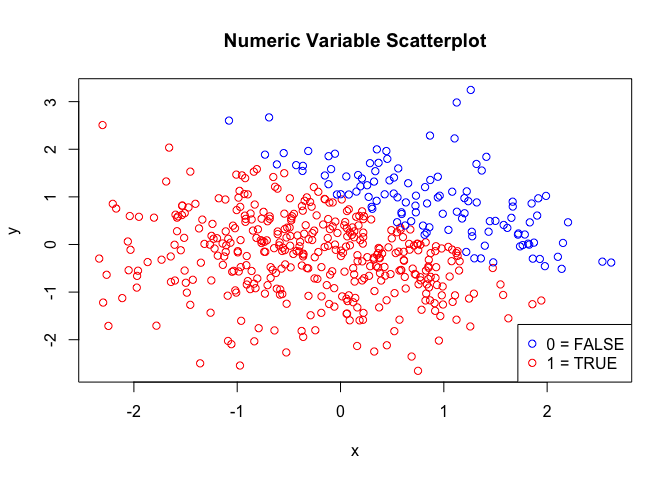
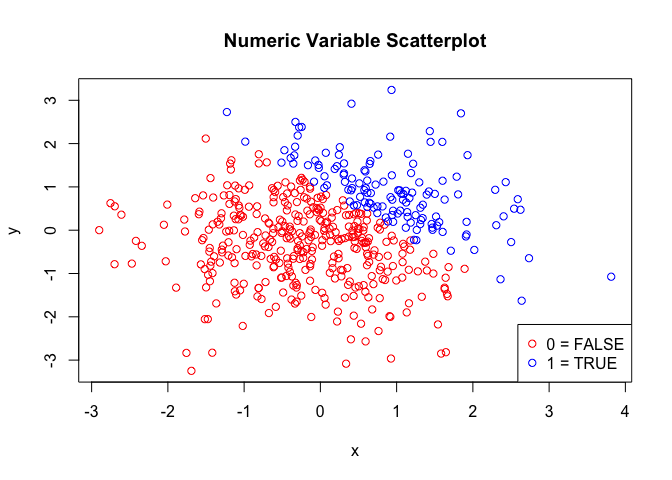
Update labels and colors for all three scatterplots.

diff --git a/p8105_hw1_dz2426.md b/p8105_hw1_dz2426.md
@@ -48,9 +48,9 @@ mean_char_vec = mean(pull(df_1, char_vec))
 mean_fac_vec = mean(pull(df_1, fac_vec))
 ```
 
-Comment 1: <br /> The mean of the random sample is -0.2. <br /> The mean
-of the logic vector is 0.38. <br /> The mean of the character vector is
-NA. <br /> The mean of the factor vector is NA. <br />
+Comment 1: <br /> The mean of the random sample is -0.28. <br /> The
+mean of the logic vector is 0.5. <br /> The mean of the character vector
+is NA. <br /> The mean of the factor vector is NA. <br />
 
 ``` r
 #Convert the logical, character, and factor vector to numeric variable
@@ -77,8 +77,8 @@ Here is the second code
 as.numeric(pull(df_1, log_vec)) * pull(df_1, random_samp)
 ```
 
-    ## [1] 0.0000000 0.0000000 0.0000000 1.6314314 0.0000000 2.6121077 0.0000000
-    ## [8] 0.2607304
+    ## [1] 0.49097248 0.51857918 0.07982578 0.00000000 0.00000000 0.00000000
+    ## [7] 0.00000000 0.53718810
 
 ``` r
 as.factor(pull(df_1, log_vec)) * pull(df_1, random_samp)
@@ -93,8 +93,8 @@ as.factor(pull(df_1, log_vec)) * pull(df_1, random_samp)
 as.numeric(as.factor(pull(df_1, log_vec))) * pull(df_1, random_samp)
 ```
 
-    ## [1] -0.9702213 -2.6442266 -0.9949547  3.2628628 -1.1109284  5.2242154
-    ## [7] -0.3795574  0.5214608
+    ## [1]  0.9819450  1.0371584  0.1596516 -1.4371491 -0.8483893 -0.3902239
+    ## [7] -1.1923654  1.0743762
 
 # Problem 2
 
@@ -122,9 +122,9 @@ prop_case = mean(pull(df_2, log_vec_2))
 ```
 
 Description of data frame: <br /> The size of the data set is 500 and 5.
-<br /> The mean, median and standard deviation of x are -0.01, 0.04 and
-0.98, respectively. <br /> The proportion of cases for which x+y\>1 is
-0.23.
+<br /> The mean, median and standard deviation of x are 0.06, 0.05 and
+1.03, respectively. <br /> The proportion of cases for which x+y\>1 is
+0.27.
 
 \#\#Section 2
 
@@ -133,7 +133,7 @@ with(df_2, plot(x, y, xlab = "x", ylab = "y",
                          main = "Logical Variable Scatterplot", type = "n"))
 with(subset(df_2, log_vec_2 == 'FALSE'), points(x, y, col = 'red'))        
 with(subset(df_2, log_vec_2 == 'TRUE'), points(x, y, col = 'blue'))
-legend("bottomright", pch = 1, col = c("blue","red"), 
+legend("bottomright", pch = 1, col = c("red","blue"), 
        legend = c("FALSE","TRUE"))
 ```
 
@@ -144,7 +144,7 @@ with(df_2, plot(x, y, xlab = "x", ylab = "y",
                          main = "Numeric Variable Scatterplot", type = "n"))
 with(subset(df_2, num_vec_2 == '0'), points(x, y, col = 'red'))        
 with(subset(df_2, num_vec_2 == '1'), points(x, y, col = 'blue'))
-legend("bottomright", pch = 1, col = c("blue","red"), 
+legend("bottomright", pch = 1, col = c("red","blue"), 
        legend = c("0 = FALSE","1 = TRUE"))
 ```
 
@@ -155,8 +155,9 @@ with(df_2, plot(x, y, xlab = "x", ylab = "y",
                          main = "Factor Variable Scatterplot", type = "n"))
 with(subset(df_2, fac_vec_2 == 'FALSE'), points(x, y, col = 'red'))        
 with(subset(df_2, fac_vec_2 == 'TRUE'), points(x, y, col = 'blue'))
-legend("bottomright", pch = 1, col = c("blue","red"), 
-       legend = c("0 = FALSE","1 = TRUE"))
+legend("bottomright", pch = 1, col = c("red","blue"), 
+       legend = c("level 1 = FALSE","level 2 = TRUE"))
 ```
 
 ![](p8105_hw1_dz2426_files/figure-gfm/yx_factor_scatterplot-1.png)<!-- -->
+Comment 3: <br />
